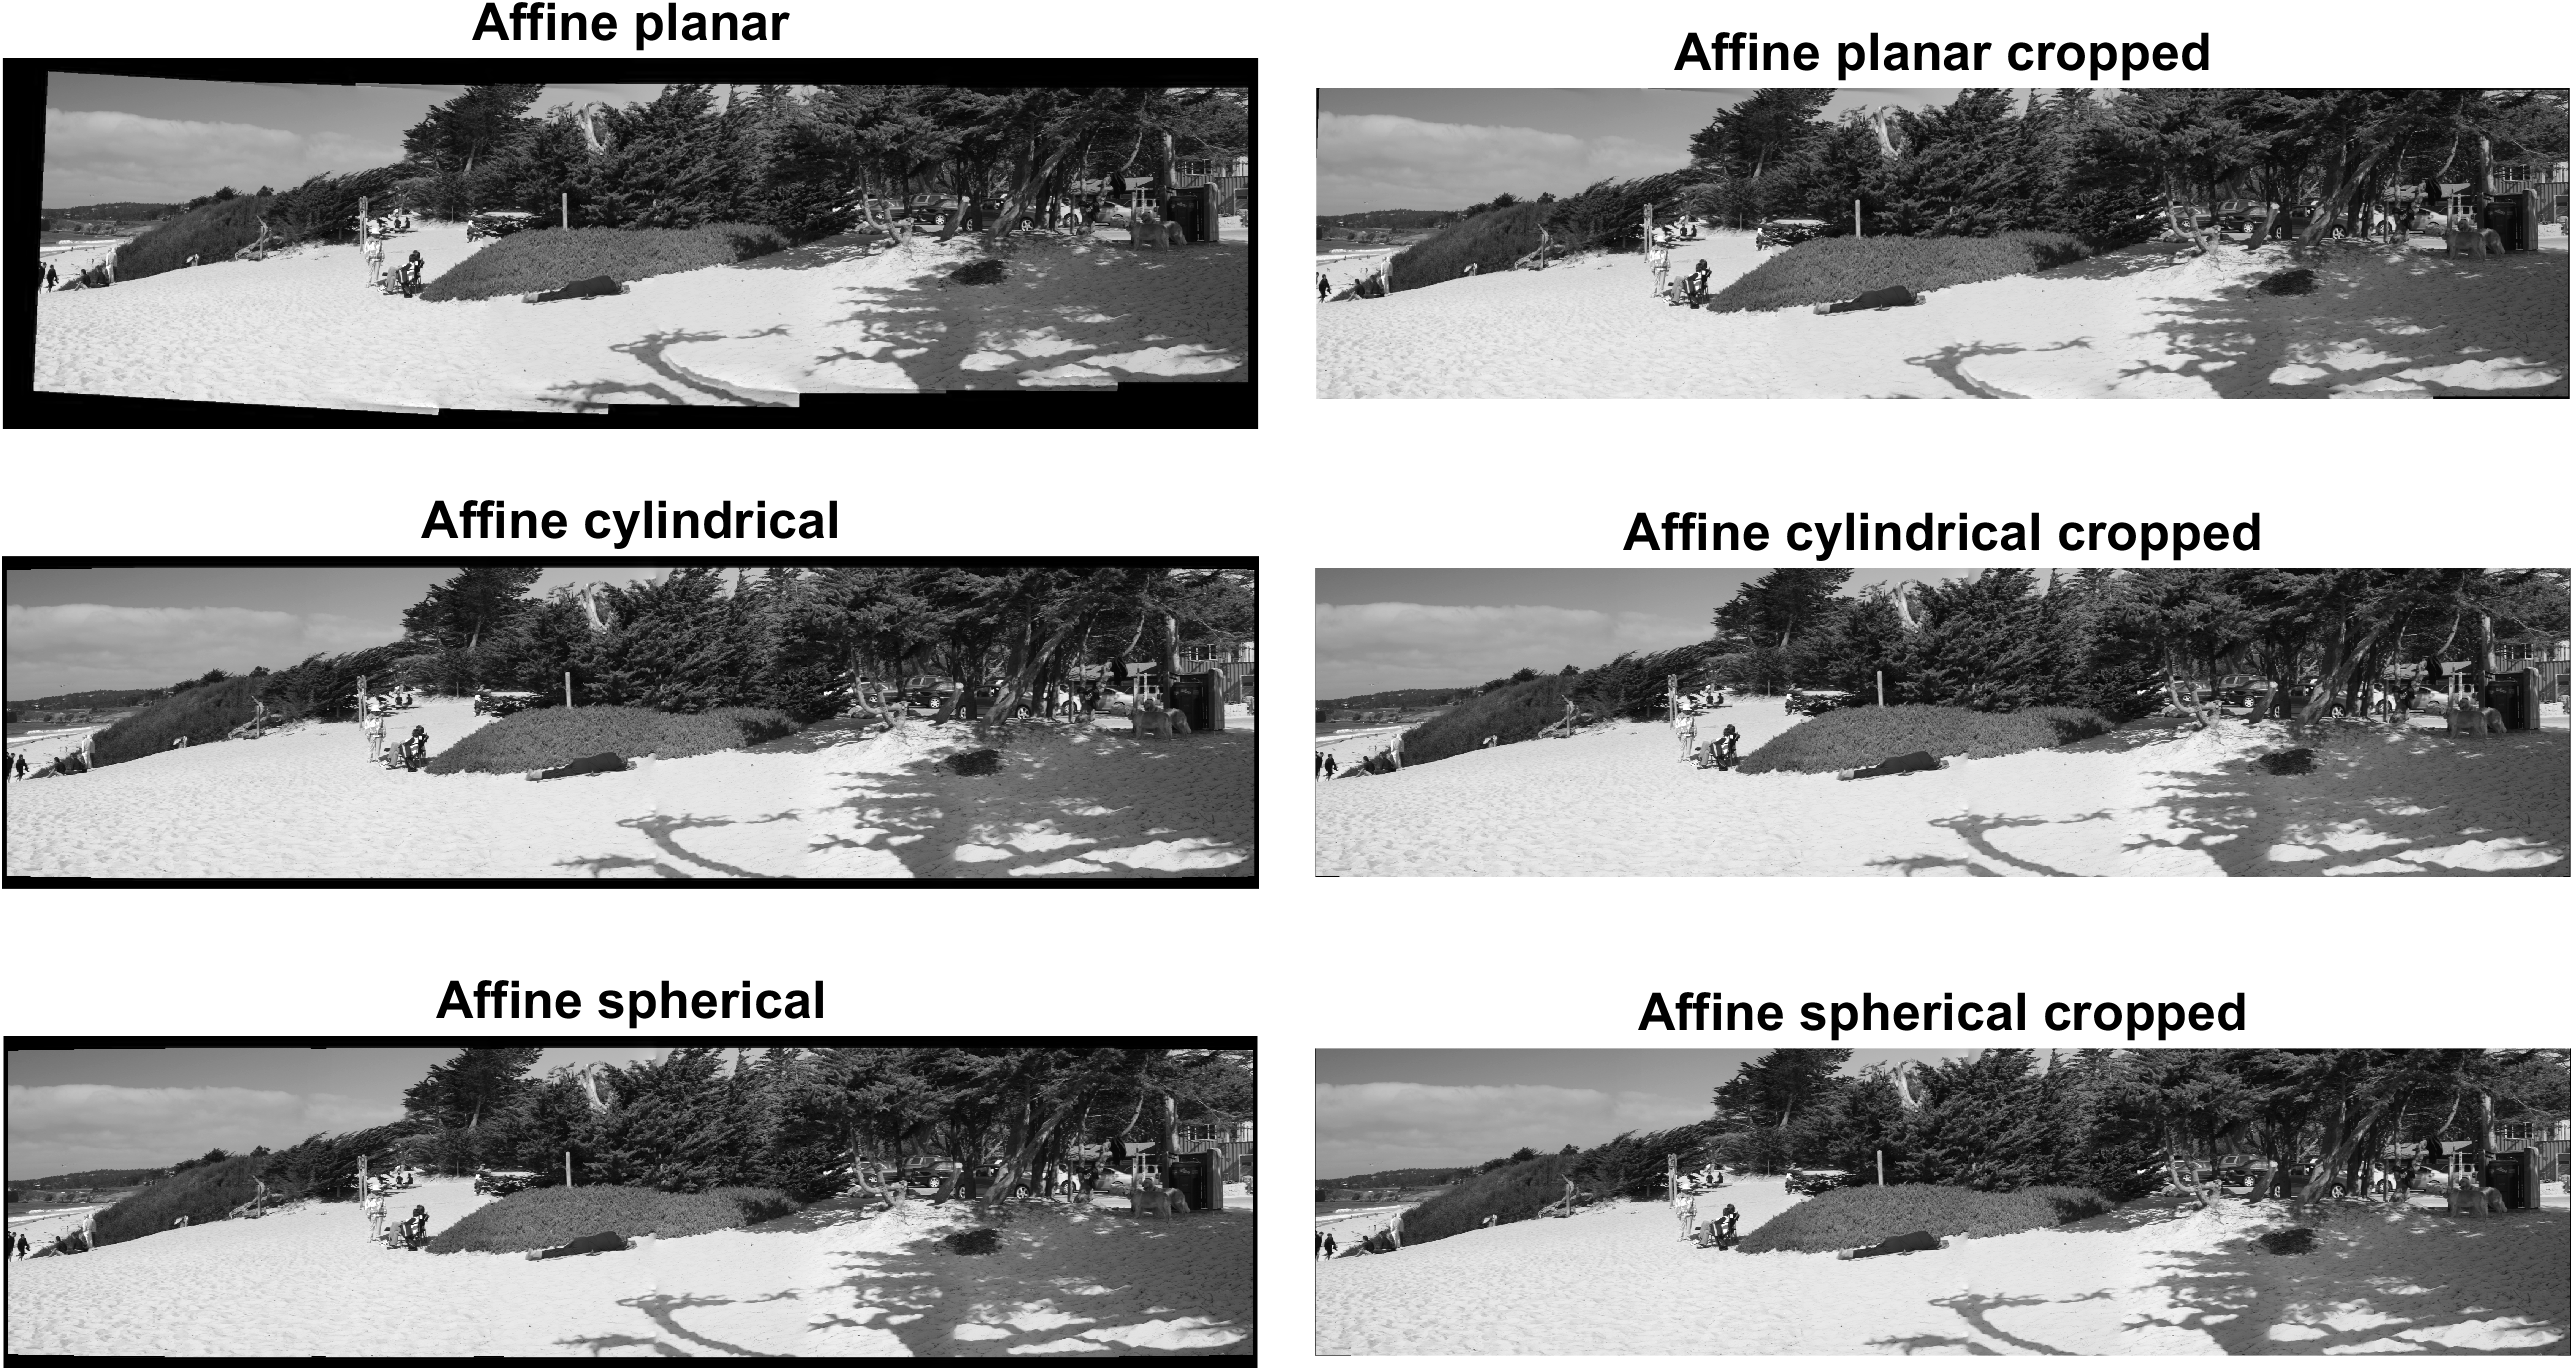
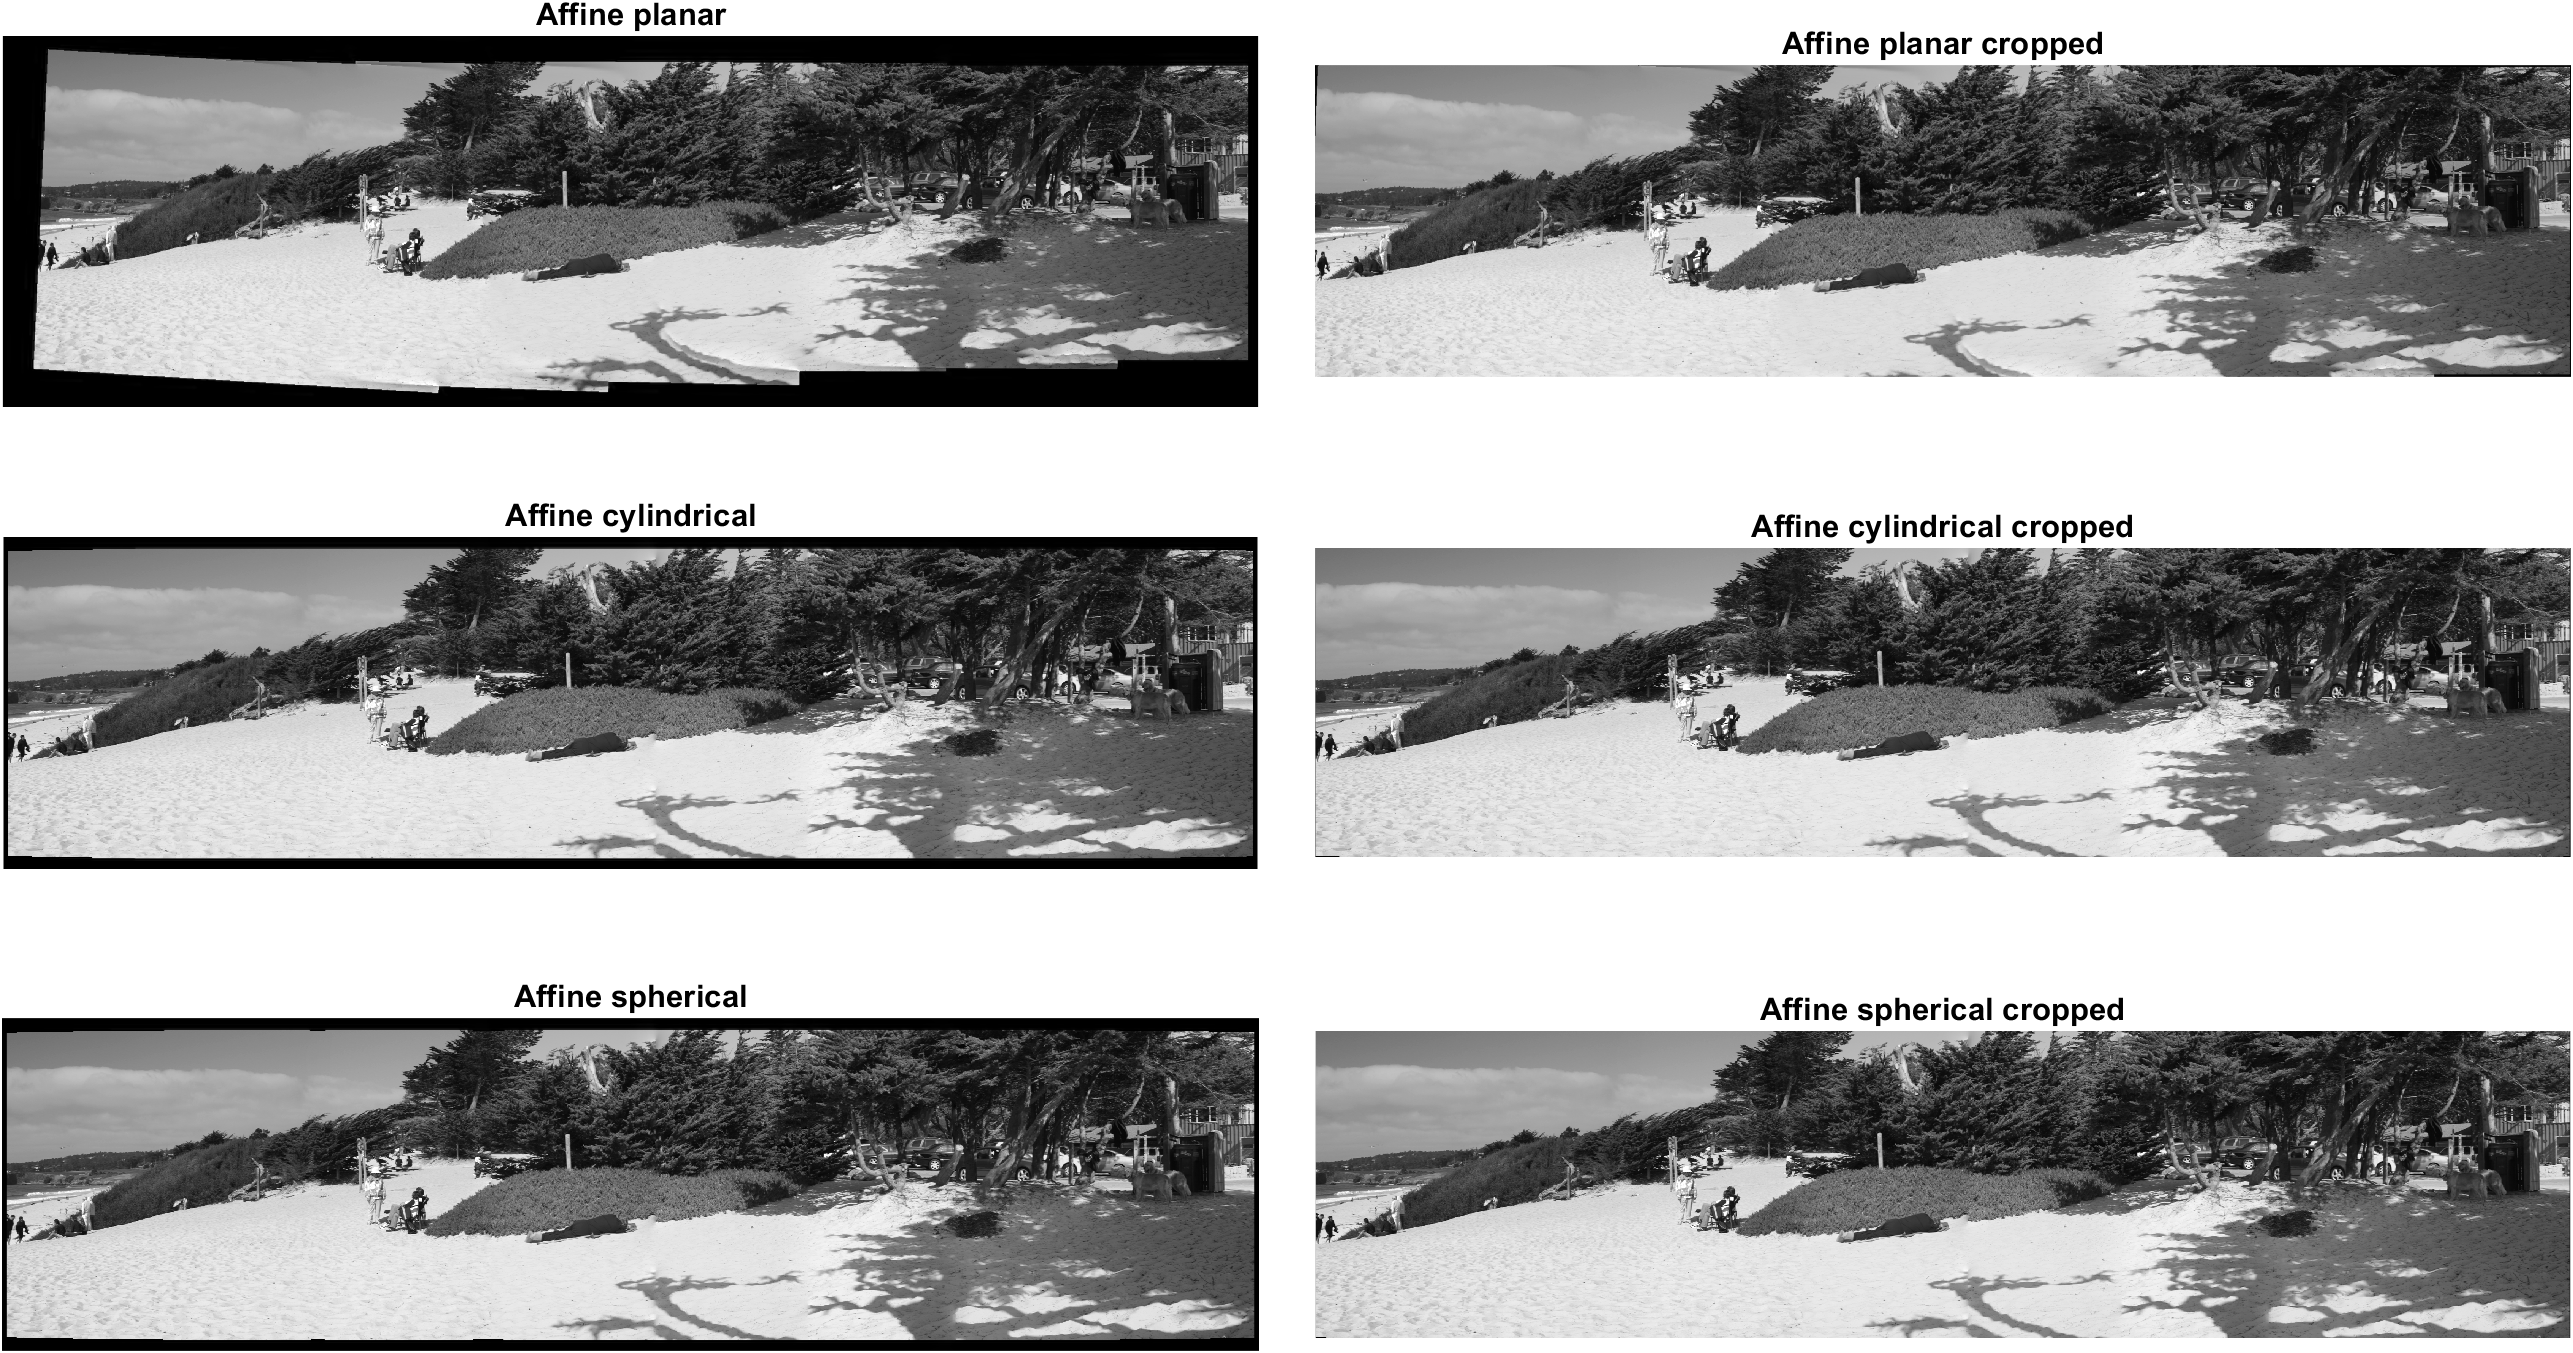
Reduced the image titles font size.

Changed region(s): [[0.0, 0.0, 1.0, 0.3104], [0.0, 0.3725, 1.0, 0.6519], [0.0, 0.714, 1.0, 1.0]]

diff --git a/main.m b/main.m
@@ -108,14 +108,14 @@ for i = 1:length(transformationtype)
     word = transformationtype{i};
     transTitle = strcat(upper(word(1)), lower(word(2:end)));
 
-    nexttile; imshow(panorama{1}); title([transTitle ' ' warpType{1}], 'fontsize', 25)        
-    nexttile; imshow(croppedPanorama{1}); title([transTitle ' ' warpType{1} ' ' 'cropped'], 'fontsize', 25)
+    nexttile; imshow(panorama{1}); title([transTitle ' ' warpType{1}], 'fontsize', 15)        
+    nexttile; imshow(croppedPanorama{1}); title([transTitle ' ' warpType{1} ' ' 'cropped'], 'fontsize', 15)
 
-    nexttile; imshow(panorama{2}); title([transTitle ' ' warpType{2}], 'fontsize', 25)     
-    nexttile; imshow(croppedPanorama{2}); title([transTitle ' ' warpType{2} ' ' 'cropped'], 'fontsize', 25)
+    nexttile; imshow(panorama{2}); title([transTitle ' ' warpType{2}], 'fontsize', 15)     
+    nexttile; imshow(croppedPanorama{2}); title([transTitle ' ' warpType{2} ' ' 'cropped'], 'fontsize', 15)
 
-    nexttile; imshow(panorama{3}); title([transTitle ' ' warpType{3}], 'fontsize', 25)
-    nexttile; imshow(croppedPanorama{3}); title([transTitle ' ' warpType{3} ' ' 'cropped'], 'fontsize', 25)
+    nexttile; imshow(panorama{3}); title([transTitle ' ' warpType{3}], 'fontsize', 15)
+    nexttile; imshow(croppedPanorama{3}); title([transTitle ' ' warpType{3} ' ' 'cropped'], 'fontsize', 15)
     
     % Export graphics
     ax = gcf;
